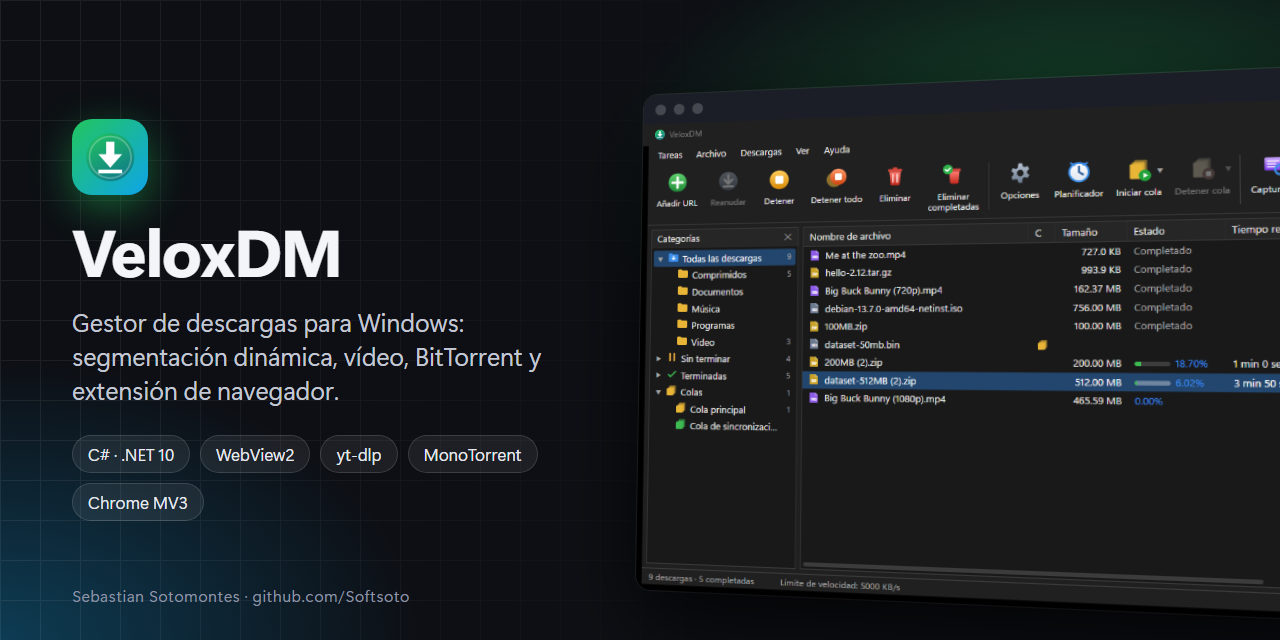
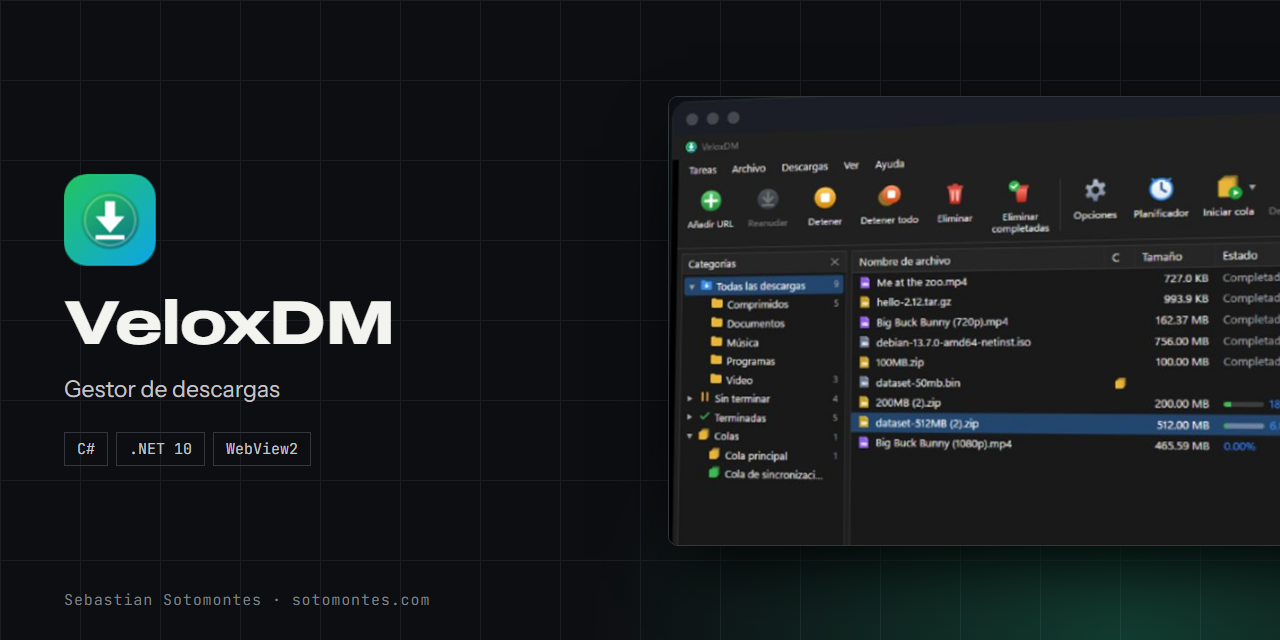
Presentacion profesional: ficha, novedades y arquitectura

diff --git a/README.md b/README.md
@@ -1,22 +1,33 @@
-<p align="center"><img src="images/logo.png" alt="" width="96"></p>
-
-<h1 align="center">VeloxDM</h1>
+<p align="center"><img src="images/banner.png" alt="VeloxDM" width="100%"></p>
 
 <p align="center">Gestor de descargas con segmentación dinámica, colas, planificador, video, BitTorrent y extensión de navegador.</p>
 
-<p align="center"><a href="https://sotomontes.com/#veloxdm"><b>Ver en sotomontes.com</b></a></p>
+<p align="center"><a href="https://sotomontes.com/#veloxdm"><b>Ver en sotomontes.com</b></a> · <a href="#cómo-se-usa">Cómo se usa</a> · <a href="#cómo-funciona-por-dentro">Cómo funciona</a> · <a href="#novedades">Novedades</a></p>
 
-**Autor:** Sebastian Sotomontes · © 2026
-
-> Esta página es solo una presentación del proyecto. El código y los instaladores son privados.
+| Ficha técnica | |
+|---|---|
+| **Autor** | Sebastian Sotomontes |
+| **Tipo** | Gestor de descargas |
+| **Plataforma** | Windows 10 y 11 |
+| **Versión** | 0.4.1 |
+| **Estado** | Funcional |
+| **Stack** | C# · .NET 10 · WebView2 |
+| **Código** | Privado. Esta página es solo una presentación. |
 
 ---
-
-<p align="center"><img src="images/banner.png" alt="" width="100%"></p>
 
 ## Qué es
 
 VeloxDM es un gestor de descargas para Windows pensado para bajar archivos grandes sin perder el progreso. Divide cada descarga en varias conexiones que trabajan en paralelo y, cuando una termina, ayuda a la más lenta. También baja vídeo, torrents y paquetes de enlaces, y se integra con tu navegador para capturar las descargas sin que tengas que copiar nada.
+
+<p align="center"><img src="images/captura.jpg" alt="Captura de VeloxDM" width="100%"></p>
+
+## Novedades
+
+- Si un sitio exige una verificación, la descarga abre tu navegador para que la resuelvas tú.
+- Tabla de 1311 sitios de alojamiento y motores por plataforma.
+- Capturador de enlaces propio con complementos por sitio.
+- Barra de progreso de vídeo con el tamaño total desde el inicio.
 
 ## Cómo se usa
 
@@ -54,10 +65,53 @@ VeloxDM es un gestor de descargas para Windows pensado para bajar archivos grand
 - Si un sitio pide una verificación, VeloxDM abre la página para que la resuelvas tú; nada se salta.
 - Línea de comandos para usarlo desde scripts.
 
-## Tecnologías
+## Cómo funciona por dentro
 
-C# · .NET 10 · WebView2
+### Arquitectura
+
+```mermaid
+flowchart LR
+  EXT["Extensión MV3<br/>Chrome · Edge · Brave"] -->|"native messaging"| NH["NativeHost"]
+  NH -->|"tubería con nombre"| APP
+  subgraph APP["VeloxDM.exe"]
+    UI["Ventanas WinForms + WebView2<br/>www/"] <--> DM["DownloadManager<br/>colas · planificador · límites"]
+    DM --> HTTP["Downloader<br/>HTTP/HTTPS segmentado"]
+    DM --> FTP["FtpDownloader"]
+    DM --> HLS["HlsDownloader<br/>m3u8 · AES-128"]
+    DM --> YT["YtDlp<br/>YouTube y +1000 sitios"]
+    DM --> BT["TorrentDownloader<br/>MonoTorrent"]
+    DM --> RS["RemoteServer<br/>control desde el móvil"]
+  end
+```
+
+### Estructura
+
+| Ruta | Contenido |
+|---|---|
+| `src/VeloxDM/Core/Downloader.cs` | Motor HTTP(S): segmentación dinámica, archivo temporal disperso, reanudación |
+| `src/VeloxDM/Core/FtpDownloader.cs` | FTP con la misma segmentación (REST) |
+| `src/VeloxDM/Core/HlsDownloader.cs` | HLS: variantes, segmentos en paralelo, AES-128, remux a MP4 |
+| `src/VeloxDM/Core/YtDlp.cs` | Motor yt-dlp (sondeo de calidades, progreso, unión con ffmpeg) |
+| `src/VeloxDM/Core/TorrentDownloader.cs` | BitTorrent (MonoTorrent), límites compartidos con el resto |
+| `src/VeloxDM/Core/DownloadManager.cs` | Lista, colas, planificador, velocidad, acciones al terminar |
+| `src/VeloxDM/Core/SiteGrabber.cs` | Capturador de sitios |
+| `src/VeloxDM/Core/RemoteServer.cs` | Control remoto HTTP en la red local |
+| `src/VeloxDM/Core/LinkGrabber.cs` | Capturador de enlaces: análisis de texto y páginas, comprobación, paquetes |
+| `src/VeloxDM/Core/Hosters.cs`, `FilePlatforms.cs` | Complementos de sitios y motores de plataformas compartidas |
+| `src/VeloxDM/Core/Packages.cs` | Fin de paquete: descompresión, contraseñas y aviso |
+| `src/VeloxDM/Core/ClickNLoad.cs` | Receptor Click'n'Load |
+| `src/VeloxDM/Core/NativeHost.cs`, `Ipc.cs` | Host de native messaging y tubería con la app |
+| `src/VeloxDM/Ui/`, `src/VeloxDM/www/` | Ventanas WinForms + WebView2 y su interfaz HTML/JS |
+| `installer/VeloxDM.iss` | Instalador Inno Setup (por usuario, sin administrador) |
+
+### Cómo captura el navegador
+
+La extensión pausa la descarga en `downloads.onDeterminingFilename` y se la entrega a la app por native
+messaging con URL, cookies, referer, user-agent y cabeceras. Si la app no responde, reanuda la descarga en el
+navegador, así nunca se pierde un archivo.
 
 **Créditos:** usa yt-dlp, MonoTorrent y ffmpeg.
+
+---
 
 <sub>© 2026 Sebastian Sotomontes. Todos los derechos reservados.</sub>
